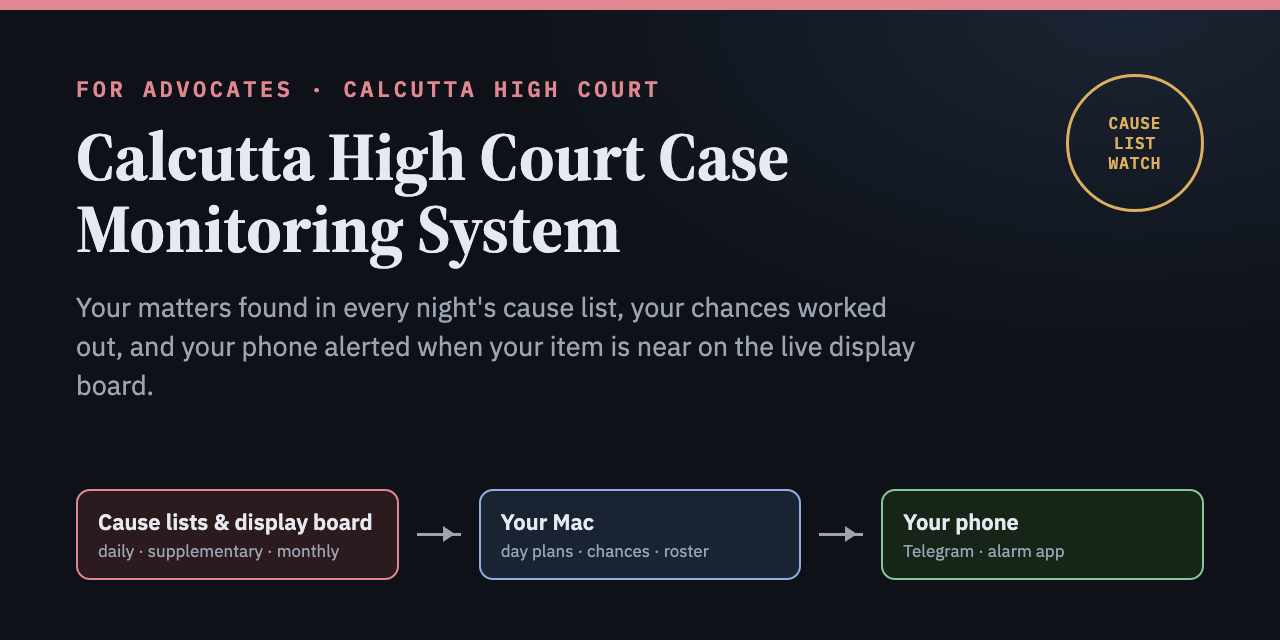
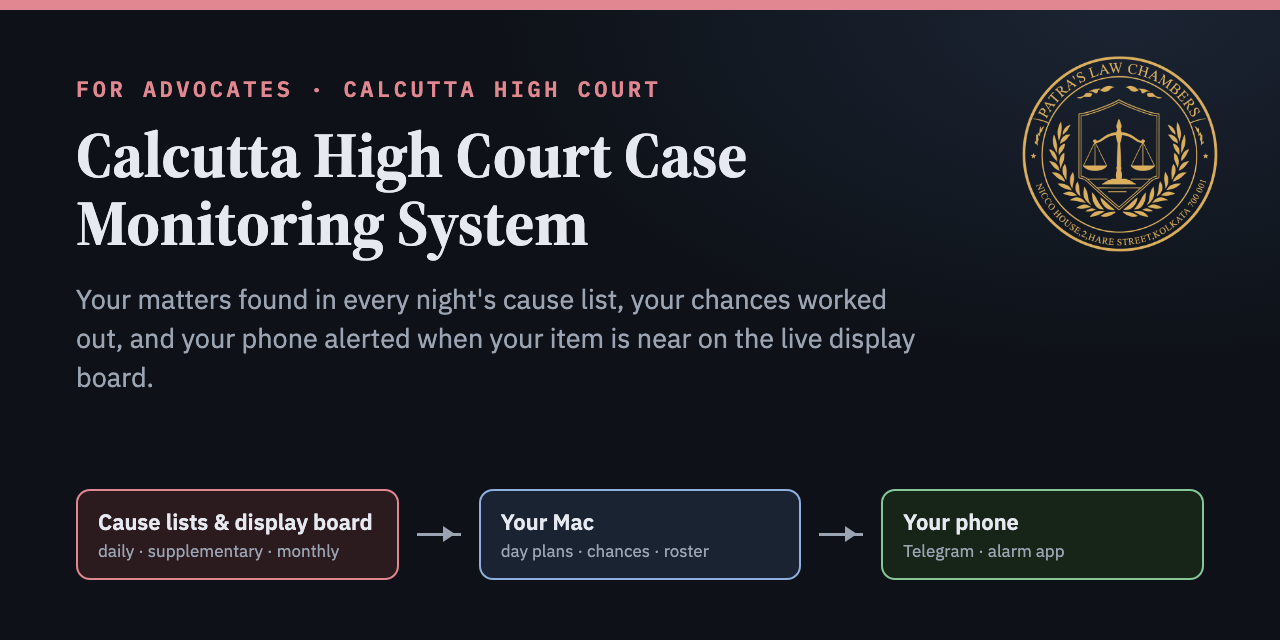
Preview image carries the Patra's Law Chambers seal

Changed region(s): [[0.0625, 0.1875, 0.7188, 0.625], [0.7812, 0.0938, 0.9688, 0.4062]]

diff --git a/docs/social-preview.html b/docs/social-preview.html
@@ -7,7 +7,7 @@ html,body{margin:0;width:1280px;height:640px;background:#0E1218;overflow:hidden}
   font-family:"IBM Plex Sans",Helvetica,Arial,sans-serif;
   background:radial-gradient(900px 500px at 88% 0%,#1B2433 0%,rgba(14,18,24,0) 70%),#0E1218;border-top:10px solid #E08792}
 .eyebrow{font:600 22px "IBM Plex Mono",Menlo,monospace;letter-spacing:.16em;color:#E08792;text-transform:uppercase}
-h1{font:700 68px/1.06 "Source Serif 4",Georgia,serif;margin:18px 0 0;max-width:900px}
+h1{font:700 64px/1.06 "Source Serif 4",Georgia,serif;margin:18px 0 0;max-width:860px}
 .sub{font:400 27px/1.45 "IBM Plex Sans",Helvetica,Arial,sans-serif;color:#9BA4B2;margin:22px 0 0;max-width:860px}
 .flow{position:absolute;left:76px;right:76px;bottom:60px;display:flex;align-items:center;gap:18px}
 .box{flex:1;border-radius:14px;padding:16px 20px;border:2px solid;font:600 22px "IBM Plex Sans",sans-serif}
@@ -15,11 +15,10 @@ h1{font:700 68px/1.06 "Source Serif 4",Georgia,serif;margin:18px 0 0;max-width:9
 .court{border-color:#E08792;background:#2B1B1F}.mac{border-color:#8EAFDF;background:#1A2331}.phone{border-color:#86C79A;background:#172519}
 .arrow{flex:none;width:44px;height:3px;background:#9BA4B2;position:relative}
 .arrow::after{content:"";position:absolute;right:-2px;top:-7px;border:8px solid transparent;border-left:12px solid #9BA4B2}
-.seal{position:absolute;right:76px;top:64px;width:132px;height:132px;border-radius:50%;border:3px solid #DBAF5E;
-  display:grid;place-items:center;text-align:center;font:600 16px/1.25 "IBM Plex Mono",monospace;color:#DBAF5E;letter-spacing:.06em}
+.seal{position:absolute;right:62px;top:46px;width:196px;height:196px}
 </style>
 <div class="card">
-  <div class="seal">CAUSE<br>LIST<br>WATCH</div>
+  <img class="seal" src="firm-seal-gold.png" alt="Patra's Law Chambers">
   <div class="eyebrow">For advocates · Calcutta High Court</div>
   <h1>Calcutta High Court Case Monitoring System</h1>
   <p class="sub">Your matters found in every night's cause list, your chances worked out, and your phone alerted when your item is near on the live display board.</p>
